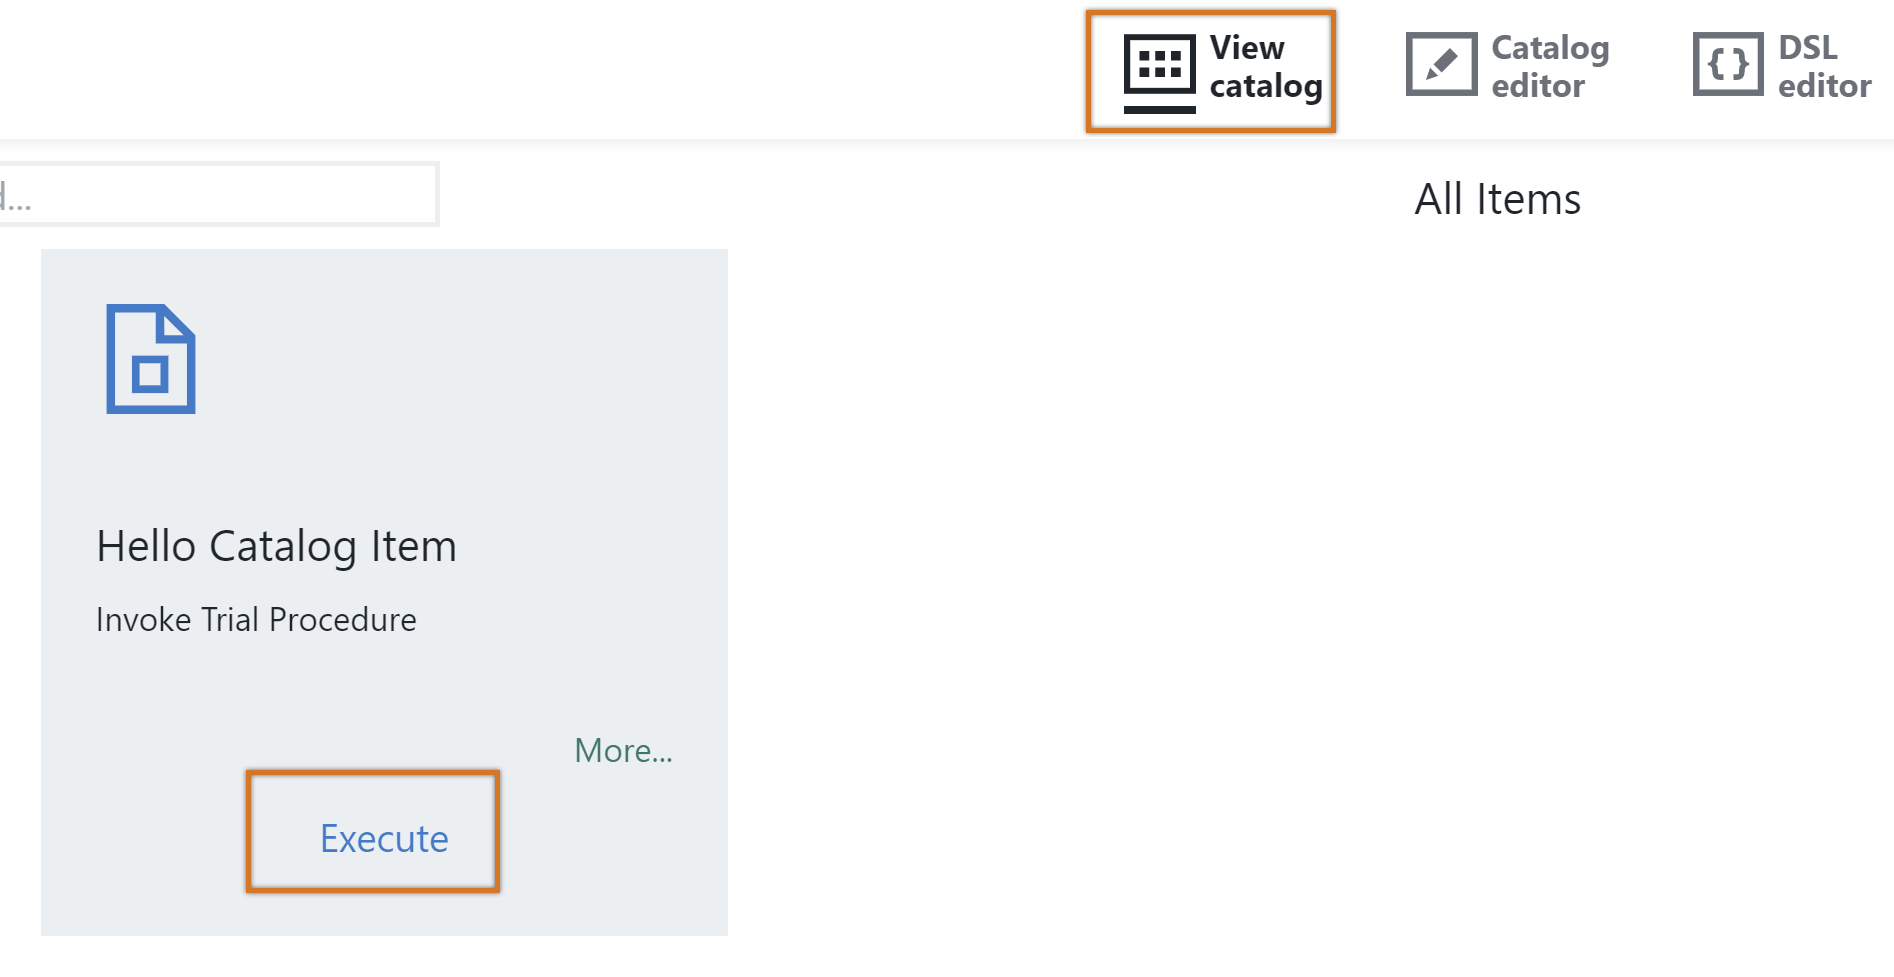
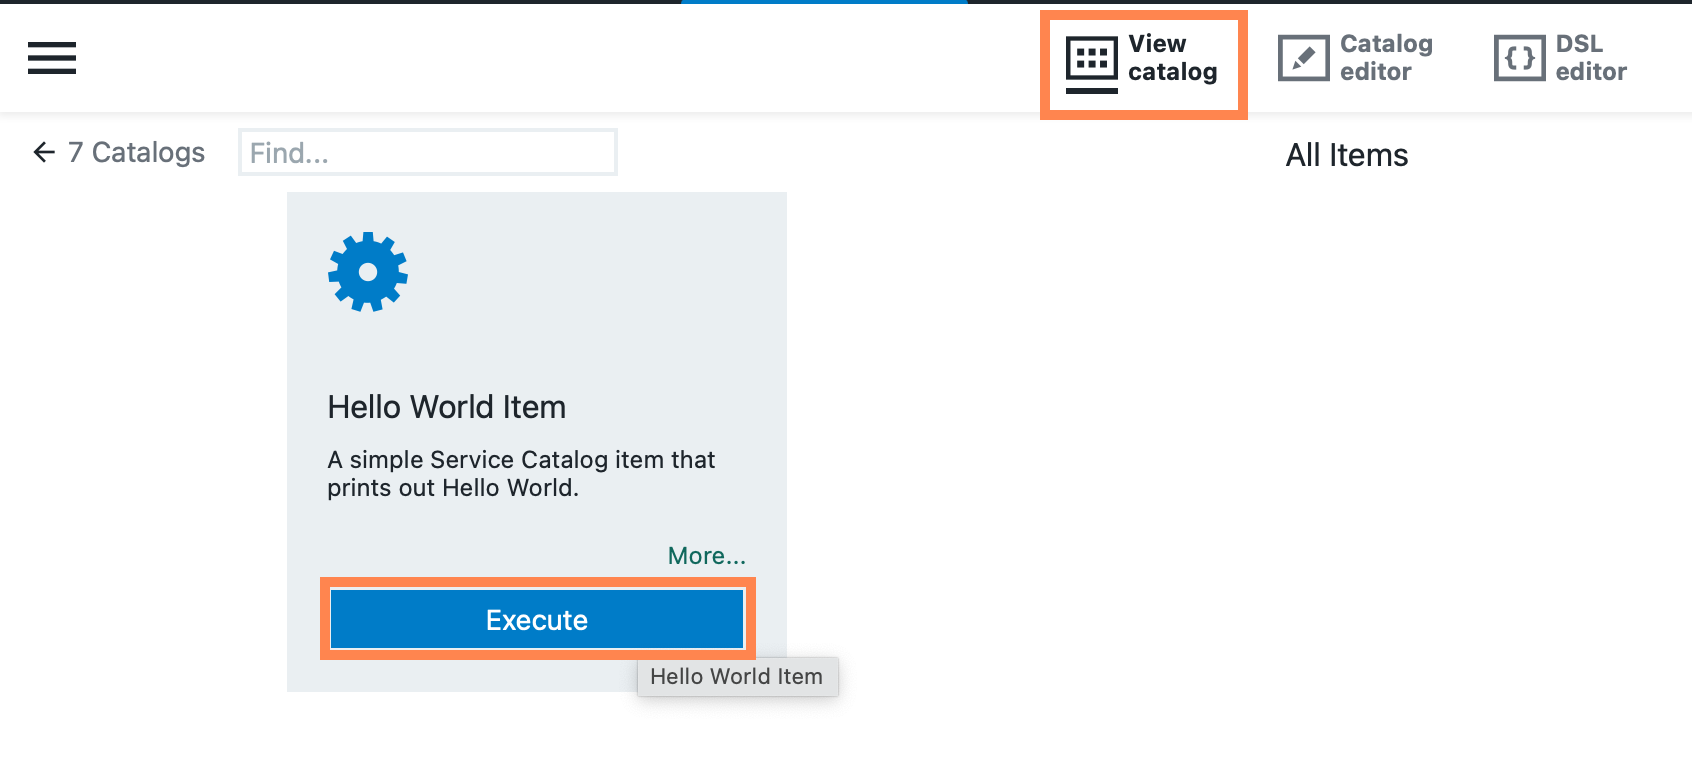
service catalog tweaks

diff --git a/labs/cloudbees-cdro/content/labs/module-1/service-catalog.md b/labs/cloudbees-cdro/content/labs/module-1/service-catalog.md
@@ -25,20 +25,27 @@ In this lab you will create a Service Catalog, and then create and run a [proced
 
 ## Add a catalog item
 
-1. Select the (**+**) beside the New Catalog Item icon in the upper right. The New Catalog dialog appears.
-2. Provide a name such as Hello Catalog Item and a description item, and then select **Done**.
+1. After you create the *Trial Catalog* the Service Catalog Item dialog appears. Enter a **name**, such as *Hello Catalog Item*, an item **description** and then click the **Define** button. ![New Catalog Item](te-service-catalog-new-item.png?width=50pc)
+2. The New Catalog item definition dialog appears.
+3. In the **Display** section, locate the **Select Button Label** field. Select **Execute**.
 
-## Add a procedure to the item definition
+{{% notice note %}}
+The **Button Label** of a Service Catalog Item is just a descriptive label of what end users should expect as an outcome of using the Service Catalog Item and does in any way control what the Service Catalog item does. Also, besides the explicit options there is also an **Other...** option that allows you to provide whatever label you want.
+{{% /notice %}}
 
-1. Select **Requires Definition**. The New Catalog Item dialog appears.
-2. In the **Display** section, locate the **Select Button Label** field. Select **Execute**.
-3. Scroll down to display the **Definition** section.
-4. Select the **Procedure** option on the left, and then select the project and procedure you created earlier.
-5. Select **OK**.
+4. Next, in the search input for the icon, enter  *Automation* and select the **Automation** icon. ![Catalog Item label and icon](te-service-catalog-item-label-icon.png?width=50pc)
+5. Scroll down to the **Definition** section.
+6. Select the **Procedure** option on the left, and then select the project and procedure you created in the previous lab. ![Catalog Item definition](service-catalog-item-definition.png?width=50pc)
 
-## Run the catalog item with parameter values
+{{% notice note %}}
+There are three types of Service Catalog Item definitions: DSL, Plugin and Procedure. You can learn more [here](https://docs.cloudbees.com/docs/cloudbees-cd/latest/self-service/#_catalog_items).
+{{% /notice %}}
 
-1. At the top of the service catalog, select **View Catalog**. ![Execute the catalog item](te-view-catalog-execute.png?width=50pc) 
-2. Select **Execute** on the catalog item.
-3. Provide input parameter values (for example, **Greet Name** is **ScrumMaster**). In the **CD User** field, select from the drop-down. Select **OK**.
+7. Select **OK** to save the Service Catalog Item definition.
+
+## Run the Service Catalog item
+
+1. At the top of the Service Catalog page, select **View Catalog**. ![Execute the catalog item](te-view-catalog-execute.png?width=50pc) 
+2. Click the **Execute** button of the Service Catalog item you just created.
+3. Select **OK**.
 4. The Job Details appear. Verify that the procedure ran as expected.
